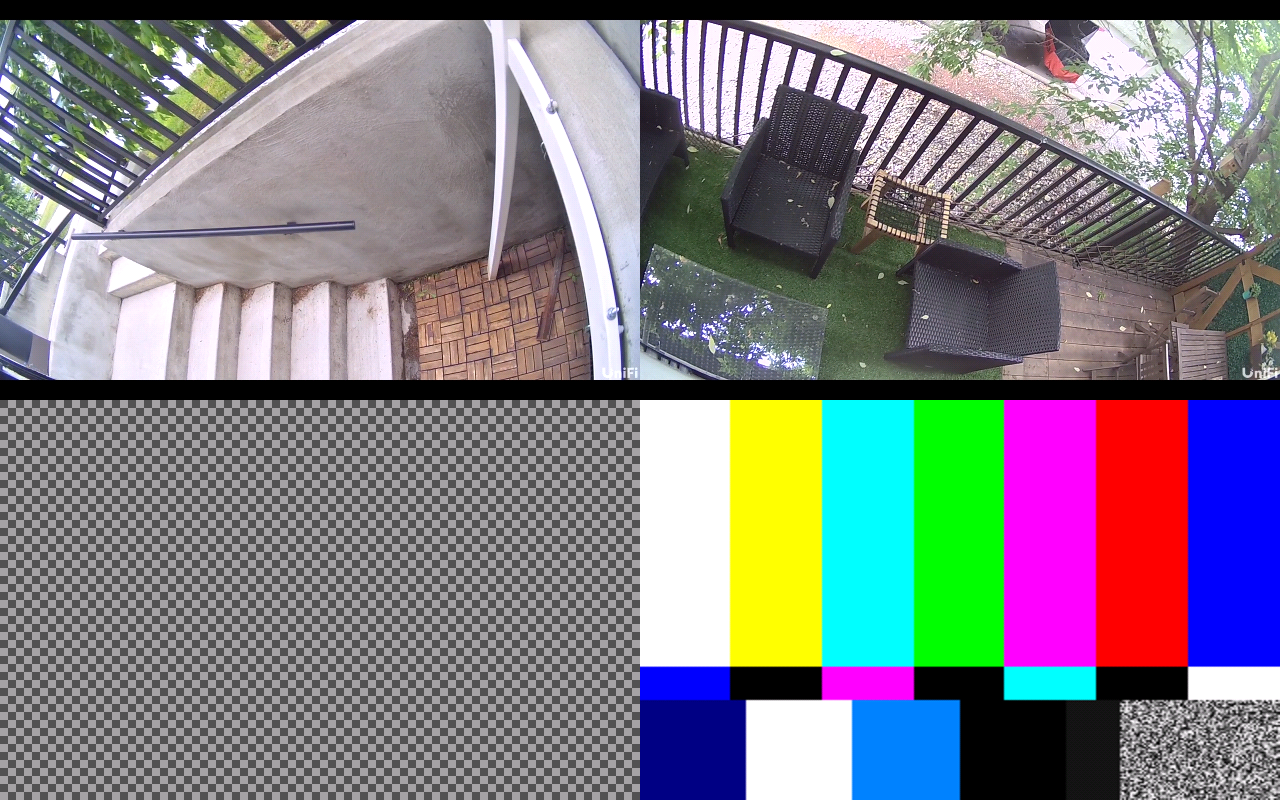
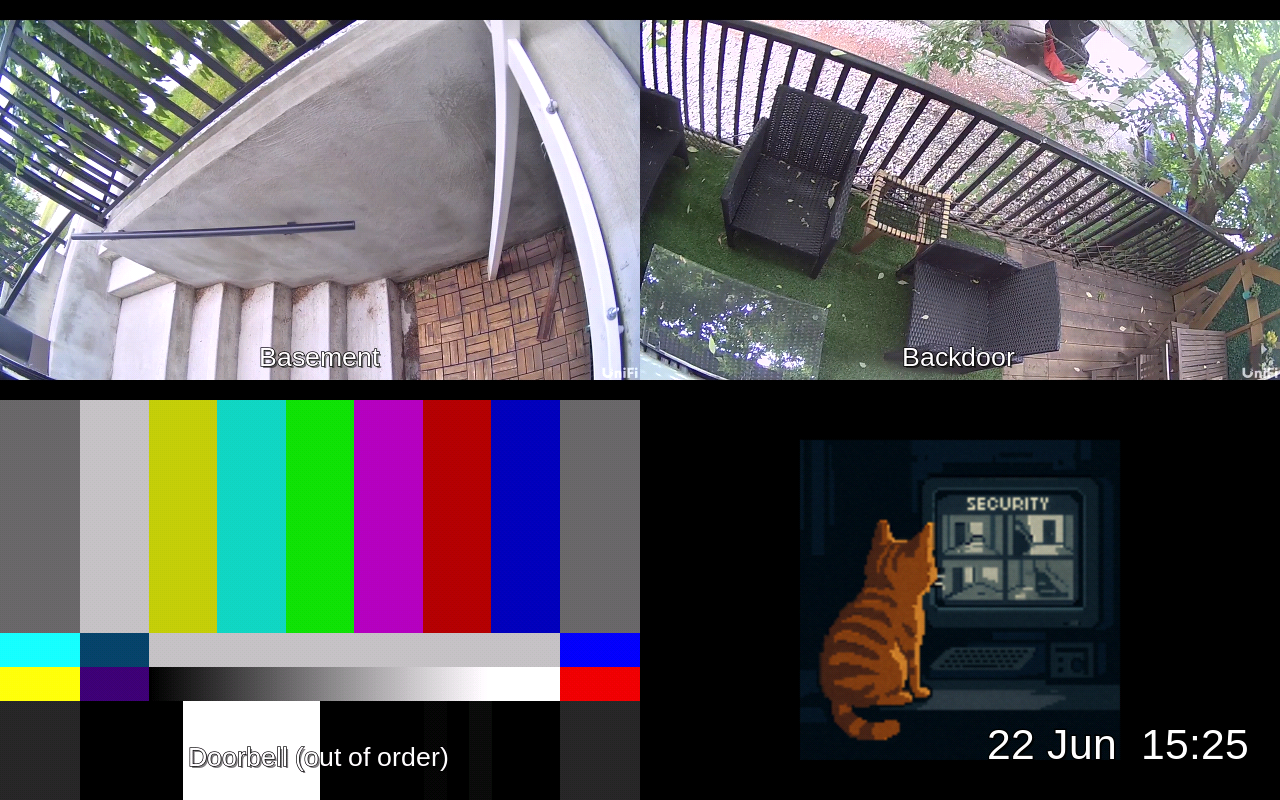
Configurable time overlay

diff --git a/src/main.rs b/src/main.rs
@@ -37,12 +37,19 @@ fn stream_image(
     image: &str,
     width: usize,
     height: usize,
+    scale: Option<(usize, usize)>,
 ) -> Result<gstreamer::Element, Box<dyn std::error::Error>> {
     let bin = Bin::new();
+    let scale = if let Some((width, height)) = scale {
+        format!("! videoscale ! video/x-raw,width={width},height={height}")
+    } else {
+        String::new()
+    };
     let pipeline = gstreamer::parse::launch(&format!(
         r#"
     filesrc location={image} 
         ! decodebin
+        {scale}
         ! imagefreeze name="image"
         ! videobox name="padding" autocrop=true
         ! videoscale
@@ -79,6 +86,34 @@ fn stream_image(
     Ok(bin.upcast())
 }
 
+fn stream_videotestsrc(
+    pattern: &str,
+    width: usize,
+    height: usize,
+) -> Result<gstreamer::Element, Box<dyn std::error::Error>> {
+    let bin = Bin::new();
+    let pipeline = gstreamer::parse::launch(&format!(
+        r#"
+    videotestsrc pattern={pattern}
+        ! queue
+        ! videoscale
+        ! videoconvert
+        ! video/x-raw,width={width},height={height}
+        ! queue name=sink
+    "#
+    ))?;
+    bin.add(&pipeline)?;
+
+    let sink = pipeline.downcast::<gstreamer::Bin>().expect("not a bin");
+    let sink = sink.by_name("sink").expect("no sink");
+    let sink_pad = sink.static_pad("src").expect("static pad");
+
+    let ghost_pad = GhostPad::with_target(&sink_pad)?;
+    ghost_pad.set_active(true)?;
+    bin.add_pad(&ghost_pad)?;
+    Ok(bin.upcast())
+}
+
 #[derive(Debug)]
 struct CompositorPad {
     pad: gstreamer::Pad,
@@ -91,18 +126,28 @@ struct CompositorPad {
 fn make_compositor(
     width: usize,
     height: usize,
+    layout: Layout,
+    time: Option<String>,
 ) -> Result<(gstreamer::Element, Vec<CompositorPad>), Box<dyn std::error::Error>> {
+    let time = time
+        .map(|time| {
+            format!(
+                "! clockoverlay halignment=right valignment=bottom time-format={time:?} font-desc=\"Arial 16\"",
+            )
+        })
+        .unwrap_or_default();
     let pipeline = gstreamer::parse::launch(&format!(
         r#"
-    compositor name="mixer" background="transparent" 
-        ! queue ! videoconvert ! queue ! fbdevsink sync=false
+    compositor name="mixer" background="transparent" ! videoconvert
+        {time}
+        ! fbdevsink sync=false
     "#
     ))?;
     let pipeline = pipeline.downcast::<gstreamer::Bin>().expect("not a bin");
     let compositor = pipeline.by_name("mixer").expect("no mixer");
     let mut pads = vec![];
 
-    for n in 0..4 {
+    for n in 0..layout.horizontal * layout.vertical {
         let pad = compositor
             .request_pad_simple(&format!("sink_{n}"))
             .expect("no pad");
@@ -111,10 +156,10 @@ fn make_compositor(
         pipeline.add_pad(&ghost)?;
         pads.push(CompositorPad {
             pad,
-            x: ((n % 2) * width / 2) as _,
-            y: ((n / 2) * height / 2) as _,
-            width: (width / 2) as _,
-            height: (height / 2) as _,
+            x: ((n % layout.horizontal) * width / layout.horizontal) as _,
+            y: ((n / layout.horizontal) * height / layout.vertical) as _,
+            width: (width / layout.horizontal) as _,
+            height: (height / layout.vertical) as _,
         });
     }
 
@@ -130,9 +175,17 @@ struct Source {
 #[derive(Debug, Deserialize)]
 #[serde(untagged)]
 enum SourceType {
-    Rtsp { rtsp: String },
-    Videotestsrc { videotestsrc: String },
-    Image { image: String },
+    Rtsp {
+        rtsp: String,
+    },
+    Videotestsrc {
+        videotestsrc: String,
+    },
+    Image {
+        image: String,
+        width: Option<usize>,
+        height: Option<usize>,
+    },
 }
 
 #[derive(Debug, Deserialize)]
@@ -145,6 +198,7 @@ struct Config {
 struct Display {
     framebuffer: String,
     layout: Layout,
+    time: Option<String>,
 }
 
 #[derive(Debug, Deserialize)]
@@ -181,7 +235,12 @@ fn main() -> Result<(), Box<dyn std::error::Error>> {
     // Initialize GStreamer
     gstreamer::init()?;
 
-    let (compositor, pads) = make_compositor(1280, 800)?;
+    let (compositor, pads) = make_compositor(
+        width as _,
+        height as _,
+        config.display.layout,
+        config.display.time,
+    )?;
 
     let pipeline = gstreamer::Pipeline::with_name("pi-frame");
     pipeline.add(&compositor)?;
@@ -195,15 +254,22 @@ fn main() -> Result<(), Box<dyn std::error::Error>> {
             }
             SourceType::Videotestsrc { videotestsrc } => {
                 eprintln!("Configuring videotestsrc source: {videotestsrc}");
-                let stream = gstreamer::ElementFactory::make("videotestsrc")
-                    .property_from_str("pattern", &videotestsrc)
-                    .build()?;
+                let stream = stream_videotestsrc(&videotestsrc, 640, 400)?;
                 stream
             }
-            SourceType::Image { image } => {
+            SourceType::Image {
+                image,
+                width: scale_width,
+                height: scale_height,
+            } => {
                 let image = config_dir.join(image).canonicalize()?;
                 eprintln!("Configuring image source: {image:?}");
-                let stream = stream_image(image.to_str().unwrap(), 640, 400)?;
+                let scale = match (*scale_width, *scale_height) {
+                    (Some(width), Some(height)) => Some((width, height)),
+                    (None, None) => None,
+                    _ => panic!("width and height must be provided"),
+                };
+                let stream = stream_image(image.to_str().unwrap(), width as _, height as _, scale)?;
                 stream
             }
         };
@@ -223,7 +289,6 @@ fn main() -> Result<(), Box<dyn std::error::Error>> {
     }
 
     for pad in pads {
-        eprintln!("{pad:?}");
         pad.pad.set_property("xpos", pad.x);
         pad.pad.set_property("ypos", pad.y);
         pad.pad.set_property("width", pad.width);
